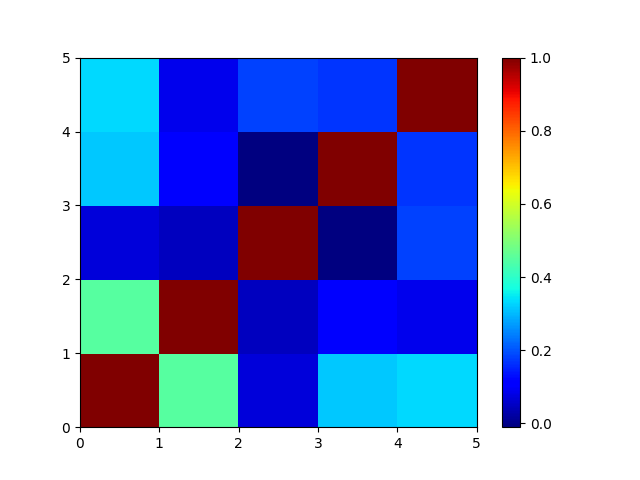
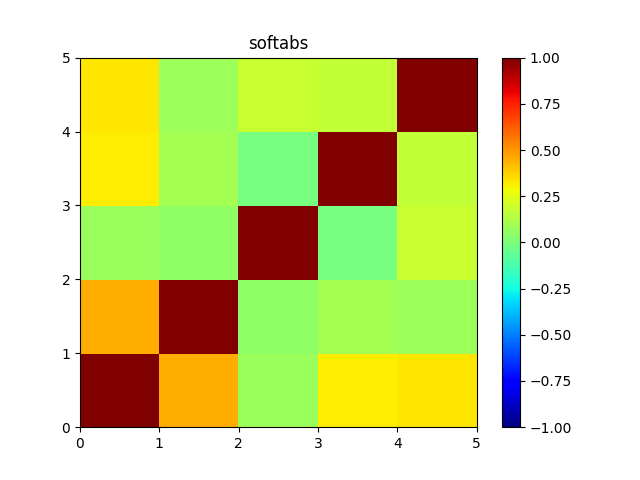
bipolar_binary experiment

diff --git a/plot.py b/plot.py
@@ -7,6 +7,27 @@ from utils import *
 import sklearn
 import sklearn.metrics
 
+def inference(model, data_generator, device, key_mem_transform = binarize, n_step = 1000):
+  model.eval()
+  accumulated_acc = []
+  for i in range(n_step):
+    support_label, support_set, query_label, query_set = data_generator.sample_batch('val', 32)
+    support_label, support_set = prep_data(support_label, support_set, device)
+    query_label, query_set = prep_data(query_label, query_set, device)
+    support_label = support_label.cpu().numpy()
+    query_label = query_label.cpu().numpy()
+    with torch.no_grad():
+      support_keys = key_mem_transform(model(support_set).cpu().detach().numpy())
+      query_keys = key_mem_transform(model(query_set).cpu().detach().numpy())
+      dot_sim = get_dot_prod_similarity(query_keys, support_keys)
+      sharpened = np.abs(dot_sim)
+      pred = np.dot(sharpened, support_label)
+      pred_argmax = np.argmax(pred, axis = 1)
+      query_label_argmax = np.argmax(query_label, axis = 1)
+      # print(np.sum(pred_argmax == query_label_argmax))
+      accumulated_acc.append(np.sum(pred_argmax == query_label_argmax)/len(pred_argmax))
+  return accumulated_acc
+
 def plot_loss_comparison():
     plt.figure()
     arr_abs = np.load('softabs_data.npz')
@@ -55,20 +76,59 @@ def get_pairwise_similarity(model_path, W, S, D, device):
         dot_sim = sklearn.metrics.pairwise.cosine_similarity(support_keys, support_keys)
     return dot_sim
 
-def plot_pairwise():
+def plot_pairwise(sharpen='softabs'):
     W = 5
     S = 1
     D = 512
     device = torch.device('cpu')
     if torch.cuda.is_available():
         device = torch.device('cuda')
-    cosine_sim = get_pairwise_similarity('model_softmax.pth', W, S, D, device)
+
+    cosine_sim = get_pairwise_similarity('model_{}.pth'.format(sharpen), W, S, D, device)
     plt.figure()
-    plt.pcolor(np.array(cosine_sim), cmap=plt.cm.jet)#, cmap=plt.cm.seismic, vmin=0, vmax=2)
+    plt.pcolor(np.array(cosine_sim), cmap=plt.cm.jet, vmin=-1, vmax=1)#, cmap=plt.cm.seismic, vmin=0, vmax=2)
     plt.colorbar()
+    plt.title(sharpen)
     # plt.imshow(cosine_sim, cmap='hot')
-    plt.savefig('softmax_pairwise.png')
+    plt.savefig('{}_pairwise.png'.format(sharpen))
 # plot_loss_comparison()
 # plot_acc_comparison()
 
-plot_pairwise()
+def plot_bipolar_binary(sharpen='softabs'):
+    W = 5
+    S = 1
+    D = 512
+
+    device = torch.device('cpu')
+    if torch.cuda.is_available():
+        device = torch.device('cuda')
+
+    model = CNNController(D).float().to(device)
+    model.load_state_dict(torch.load('model_softabs.pth'))
+    model.eval()
+
+    # cosine_sim = get_pairwise_similarity('model_{}.pth'.format(sharpen), W, S, D, device)
+    data_gen = DataGenerator(W,S)
+    acc_binarize = inference(model, data_gen, device, key_mem_transform=binarize, n_step=1000)
+    acc_bipolarize = inference(model, data_gen, device, key_mem_transform=bipolarize, n_step=1000)
+    data = np.asarray(acc_binarize), np.asarray(acc_bipolarize)
+    # N_points = 100000
+    n_bins = 20
+    # Generate a normal distribution, center at x=0 and y=5
+    x, y = data
+    fig, axs = plt.subplots(1, 2, sharey=True, tight_layout=True)
+    # We can set the number of bins with the `bins` kwarg
+    axs[0].hist(x, bins=n_bins)
+    axs[0].set_title('Binary')
+    axs[0].set_xlabel('Classification Accuracy')
+    axs[0].set_xlim([0, 1])
+
+    axs[1].hist(y, bins=n_bins)
+    axs[1].set_title('Bipolar')
+    axs[1].set_xlabel('Classification Accuracy')
+    axs[1].set_xlim([0, 1])
+
+    fig.suptitle("Binary vs Bipolar in Histogram")
+    plt.savefig('bipolar_binary_xcorr.png')
+
+plot_bipolar_binary()

diff --git a/main.py b/main.py
@@ -32,7 +32,7 @@ def train(model, data_generator, optimizer, criterion, device, n_step = 50000, s
     support_keys = None
     model.eval()
     with torch.no_grad():
-      support_keys = model(support_set)
+      support_keys = model(support_set) # output: d-dim real vector
 
     #query evaluation
     model.train()
